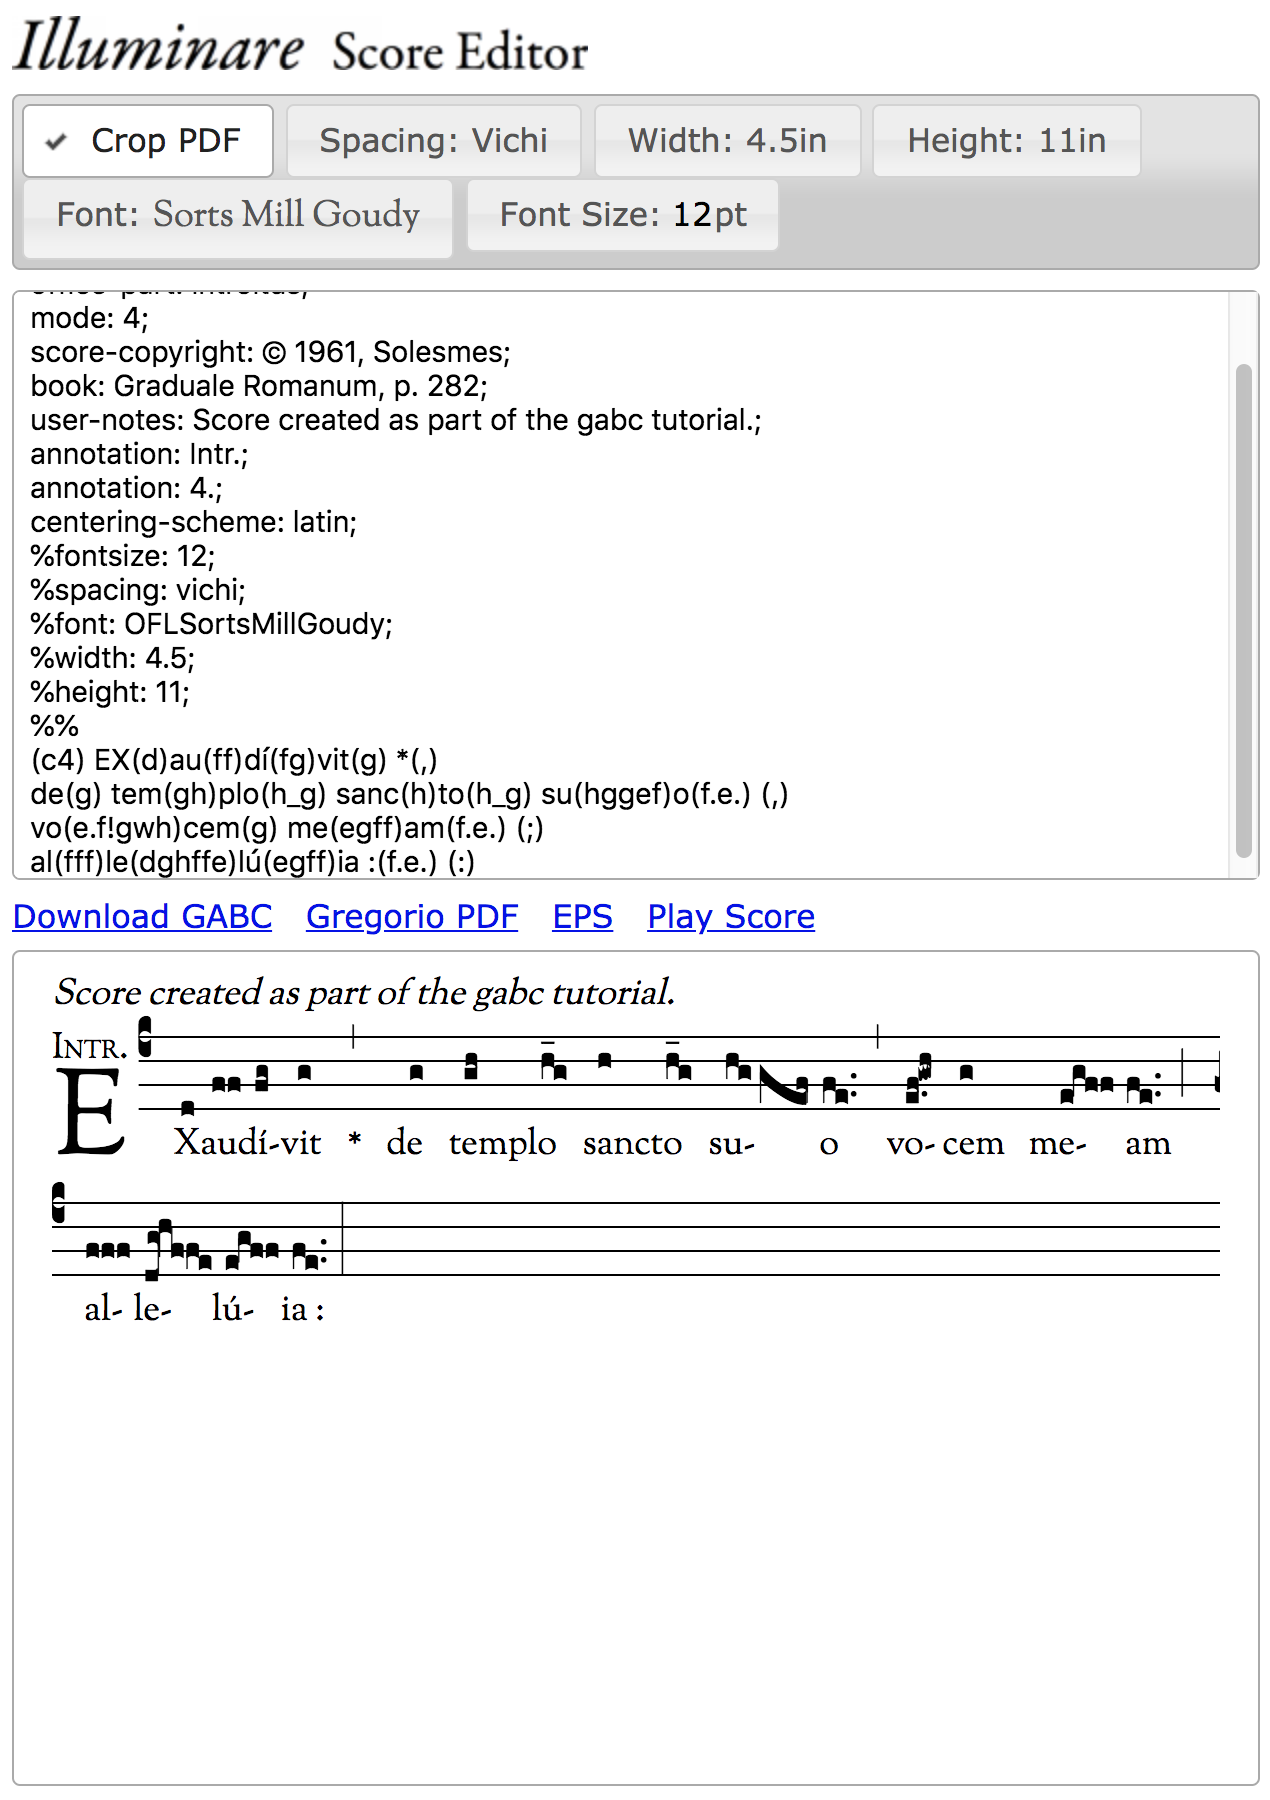
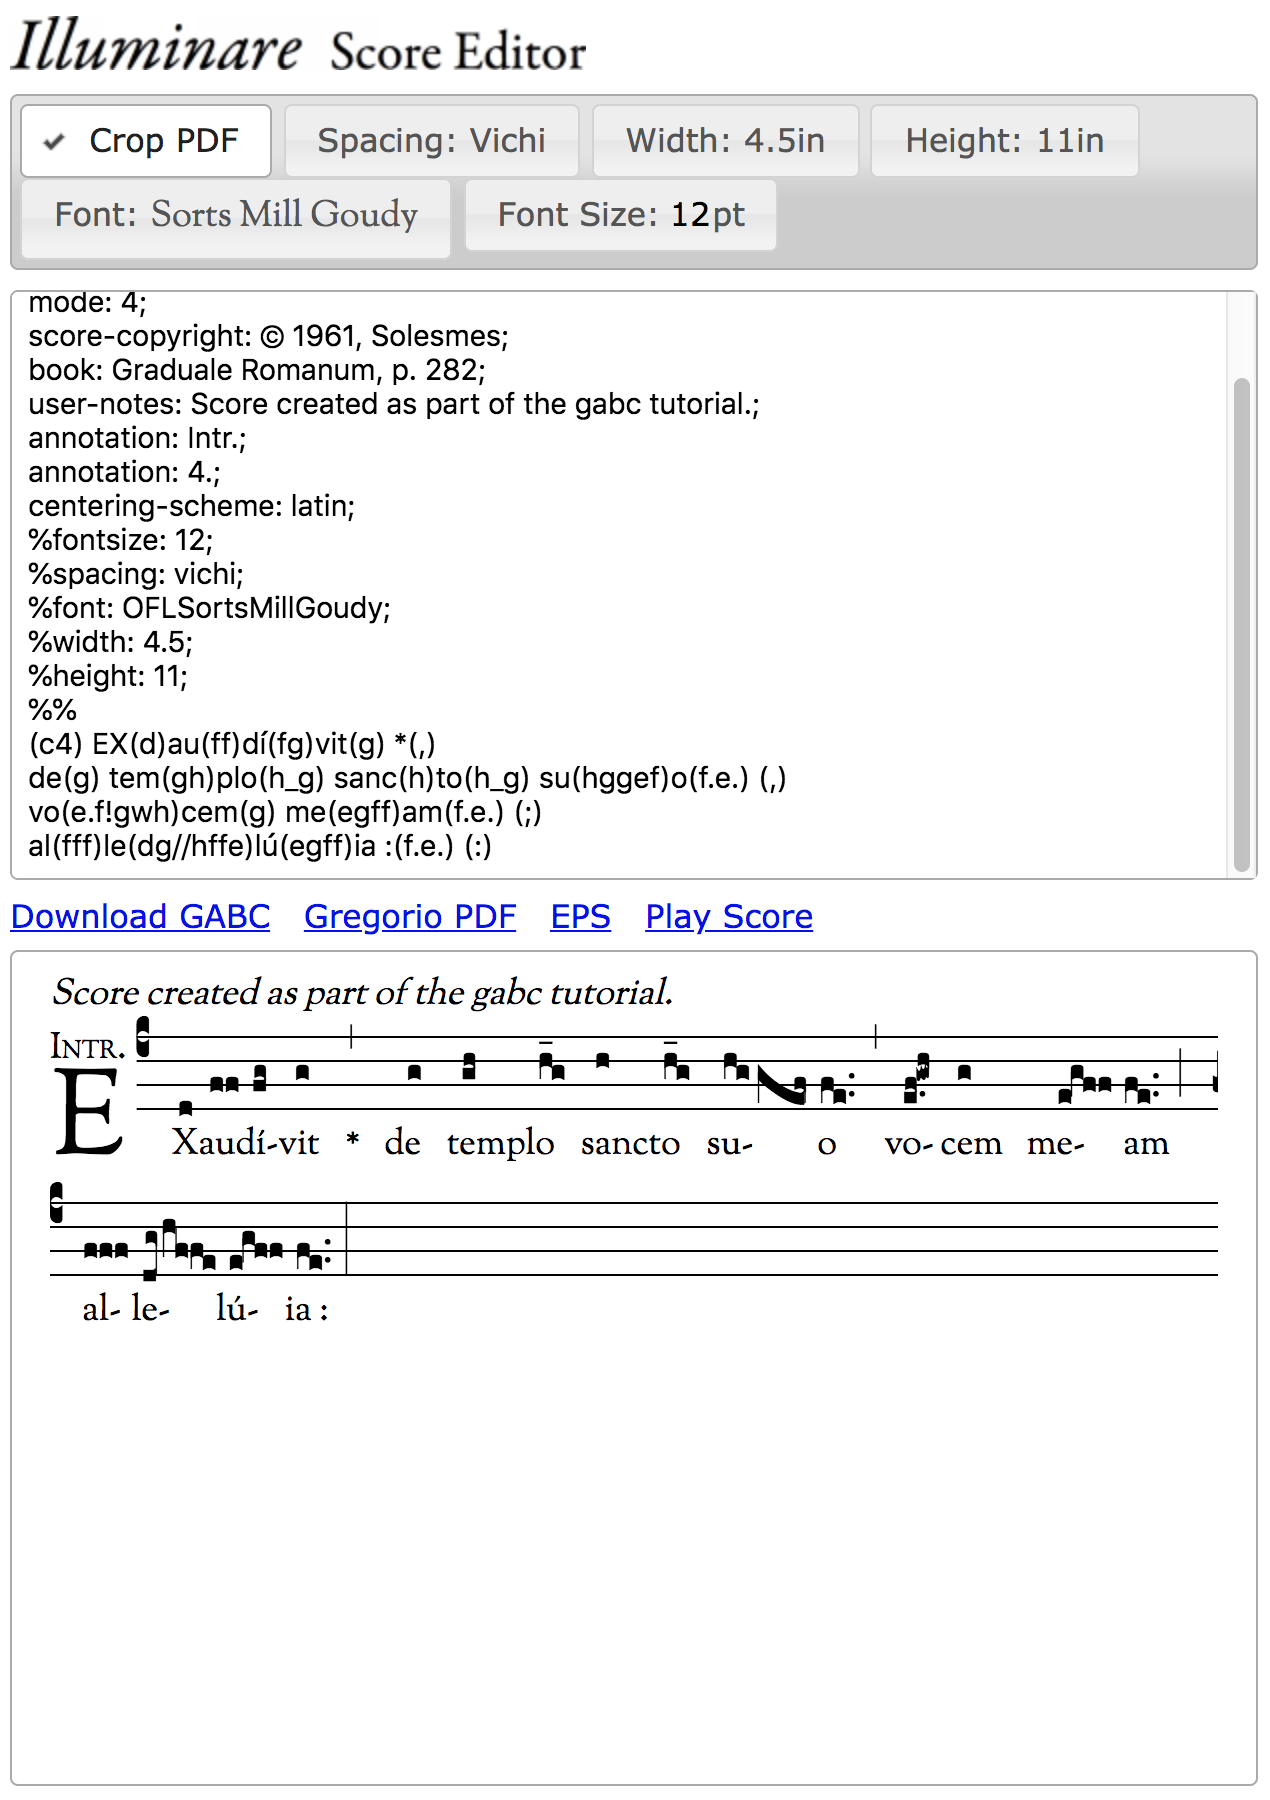
Some revisions

diff --git a/tutorial/tutorial-gabc-01.html b/tutorial/tutorial-gabc-01.html
@@ -65,7 +65,7 @@
 
 <p>Documentation for the gabc notation which we use in this tutorial can be found <a href="../gabc/index.html">here</a>.  We will also link to the various parts of the documentation as it becomes relavent.  A <a href="../gabc/summary-gabc.pdf">one-page summary is also on-line</a> (PDF).</p>
 
-<p>In this tutorial we'll be using the <a href="http://apps.illuminarepublications.com/gregorio/">Illuminare Score Editor</a> and all the images will be derived from that tool. However, you could also use the <a href="http://gregorio.gabrielmass.com/cgi/process.pl">Gregorio Chant Engraver</a> if you prefer that.  Obviously the images won't match and some of the specific interface issues are different, but the gabc itself is identical and we are specifically going to focus on that gabc notation.  This makes for a much easier introduction for those not familiar with <span class="tex">T<span class="epsilon">e</span>X</span>.  Once you're comfortable with gabc notation, then you'll find learning how to integrate it into larger projects using <span class="tex">T<span class="epsilon">e</span>X</span> much easier (as is done in our <a href="./tutorials.html">other tutorials</a>).</p>
+<p>In this tutorial we'll be using the <a href="http://apps.illuminarepublications.com/gregorio/">Illuminare Score Editor</a> and all the images will be derived from that tool because it has a built-in preview window that gives us nearly instantaneous feedback about what we're doing. However, you could also use the <a href="http://gregorio.gabrielmass.com/cgi/process.pl">Gregorio Chant Engraver</a> if you prefer that.  Obviously the images won't match and some of the specific interface issues are different (including the lack of an instant preview), but the gabc itself is identical and we are specifically going to focus on that gabc notation.  This makes for a much easier introduction for those not familiar with <span class="tex">T<span class="epsilon">e</span>X</span>.  Once you're comfortable with gabc notation, then you'll find learning how to integrate it into larger projects using <span class="tex">T<span class="epsilon">e</span>X</span> much easier (as is done in our <a href="./tutorials.html">other tutorials</a>).</p>
 
 <h2>Exaudivit</h2>
 
@@ -118,7 +118,7 @@
 
 <p>As you can see, the user notes have been placed as text above the score.  This is what is called “header capture” and is a feature of GregorioTeX that allows you to make use (in a variety of ways) of the information recorded in any of the header fields of your score without having to retype (or even copy/paste) it into the main document.  It is controlled entirely on the TeX side of things, however, so Illuminare is handling this in the background for us and we cannot adjust it in this interface.  The best we could do here is to comment out the <code>user-notes</code> line (<i>i.e.</i>, put a <code>%</code> in front of it) if we wanted to make that line disappear.</p>
 
-<p>You'll also note that even though we put in the <code>annotation</code> headers, the annotations themselves have not shown up in the output.  That's because the annotations appear above the initial.  Since we don't have an initial yet, there is no place for the annotations to appear.  So let's put in the initial, indeed, let's put in the whole first word:</p>
+<p id="annotations">You'll also note that even though we put in the <code>annotation</code> headers, the annotations themselves have not shown up in the output.  That's because the annotations appear above the initial.  Since we don't have an initial yet, there is no place for the annotations to appear.  So let's put in the initial, indeed, let's put in the whole first word:</p>
 
 <div class="legende">
 <a href="Exaudivit-03.png"><img src="Exaudivit-03.png" alt="First word.  Click to enlarge..." width=500/></a>
@@ -126,7 +126,9 @@
 
 <p>Having done this we can now see another limitation of Illuminare: it can only handle 1 annotation line.  The second line in the gabc is ignored.  We can't force Illuminare to change this behavior, so we're going to have to live with it (at least until you're ready to move on to learning TeX).</p>
 
-<p>So, having put in the first word, it's now time to start adding the notes.  Now, notes are <a href="../gabc/index.html#text">assigned to particular syllables</a> and are marked off from the text of the lyrics by parentheses (<code>()</code>).  Furthermore, each note position (<a href="../gabc/index.html#heights">the pitch of the note</a>) is represented by a particular letter.  In this scheme <code>g</code> is in the middle space of the staff and we go backwards in the alphabet (towards <code>a</code>) as we go down and forwards in the alphabet as we go up.  Finally stacked notes (called a pes or podatus) are entered from bottom to top, just like they are sung.  Taking all of these into account the first word works out to look like this:</p>
+<p>So, having put in the first word, it's now time to start adding the notes.  Now, notes are <a href="../gabc/index.html#text">assigned to particular syllables</a> and are marked off from the text of the lyrics by parentheses (<code>()</code>).  Furthermore, each note (<a href="../gabc/index.html#heights">the pitch of the note</a>) is represented by a particular letter.  In this scheme <code>g</code> is in the middle space of the staff and we go backwards in the alphabet (towards <code>a</code>) as we go down and forwards in the alphabet as we go up.  Unlike modern notes, there is no point at which the letters start to repeat.  That's because these letters are <b>not</b> note names, they are staff positions.  For a similar reason the position or type of the clef <b>does not</b> affect the letters.  <code>g</code> will always be the middle position (for a 4-line staff, it's actually possible to have 2-, 3-, or 5-line staffs which would have a different middle position, but we're going to ignore those because they are really uncommon).</p>
+
+<p>Additionally stacked notes (called a pes or podatus) are entered from bottom to top, just like they are sung.  Taking all of these into account the first word works out to look like this:</p>
 
 <div class="legende">
 <a href="Exaudivit-04.png"><img src="Exaudivit-04.png" alt="Notes for the first word.  Click to enlarge..." width=500/></a>
@@ -200,7 +202,7 @@
 <a href="Exaudivit-14.png"><img src="Exaudivit-14.png" alt="Notes to “clamor”.  Click to enlarge..." width=500/></a>
 </div>
 
-<p>To start with the first syllable of “clamor,” there are two issues to deal with: first the notes have not been grouped together correctly, and second there's a tick-mark that is supposed to be below the middle note of the sequence.  To deal with the first we have to tell Gregorio where the note grouping boundaries are.  We do this by introducing an exclamation point (<code>!</code>) between the two note groups.  You'll recall that <a href="#nospace">we used this character earlier</a> to tell Gregorio not to put a space between the two note groups in the first syllable of “vocem”.  In that case Gregorio was already grouping the notes correctly, it was just introducing extra space.  In this instance we have the opposite case: Greogrio is not introducing any extra space, but it is not grouping the notes correctly.  The exclamation point (<code>!</code>) is a no-space group boundary for the notes and so it works in both cases to correct what Gregorio is doing wrong.  To add the tick-mark, what's called a <a href="../gabc/details.html#signs">vertical episema (or ictus)</a>, we need to add an apostrophe (<code>'</code>) after the note that needs the mark:</p>
+<p id="nospacegroup">To start with the first syllable of “clamor,” there are two issues to deal with: first the notes have not been grouped together correctly, and second there's a tick-mark that is supposed to be below the middle note of the sequence.  To deal with the first we have to tell Gregorio where the note grouping boundaries are.  We do this by introducing an exclamation point (<code>!</code>) between the two note groups.  You'll recall that <a href="#nospace">we used this character earlier</a> to tell Gregorio not to put a space between the two note groups in the first syllable of “vocem”.  In that case Gregorio was already grouping the notes correctly, it was just introducing extra space.  In this instance we have the opposite case: Greogrio is not introducing any extra space, but it is not grouping the notes correctly.  The exclamation point (<code>!</code>) is a no-space group boundary for the notes and so it works in both cases to correct what Gregorio is doing wrong.  To add the tick-mark, what's called a <a href="../gabc/details.html#signs">vertical episema (or ictus)</a>, we need to add an apostrophe (<code>'</code>) after the note that needs the mark:</p>
 
 <div class="legende">
 <a href="Exaudivit-15.png"><img src="Exaudivit-15.png" alt="Regroup notes and add ictus.  Click to enlarge..." width=500/></a>

diff --git a/tutorial/tutorials.html b/tutorial/tutorials.html
@@ -63,11 +63,14 @@
 
 <p>There are several tutorials available for you to pursue, depending on how you intend to make use of Gregorio.  They are listed here in order of increasing difficulty and sophistication:</p>
 
-<ul>
-    <li><a href="tutorial-gabc-01.html">gabc Tutorial</a></li>
-    <li><a href="tutorial-snippet-01.html">GregorioTeX snippets Tutorial</a></li>
-    <li><a href="tutorial-gabc-file-01.html">GregorioTeX gabc File Tutorial</a></li>
-</ul>    
+<dl>
+    <dt><a href="tutorial-gabc-01.html">gabc Tutorial</a></dt>
+        <dd>This tutorial is designed to introduce you to the gabc syntax itself.  It makes use of the <a href="http://apps.illuminarepublications.com/gregorio/">Illuminare Score Editor</a> in order to get you up and running in the least amount of time.</dd>
+    <dt><a href="tutorial-snippet-01.html">GregorioTeX snippets Tutorial</a></dt>
+        <dd>This tutorial is for those who are looking to incorporate Gregorian chant scores into larger TeX documents.  It assumes a basic knowledge of TeX, but sets you up to make use of most of the features that Gregorio makes available.</dd>
+    <dt><a href="tutorial-gabc-file-01.html">GregorioTeX gabc File Tutorial</a></dt>
+        <dd>This tutorial is a more sophisticated way of incorporating gabc files into TeX documents.  This method has the most reusability and will enable you to make use of all of Gregorio's features (though we do not try to introduce them all in the tutorial.</dd>
+</dl>    
 
 
 <!-- footer -->
